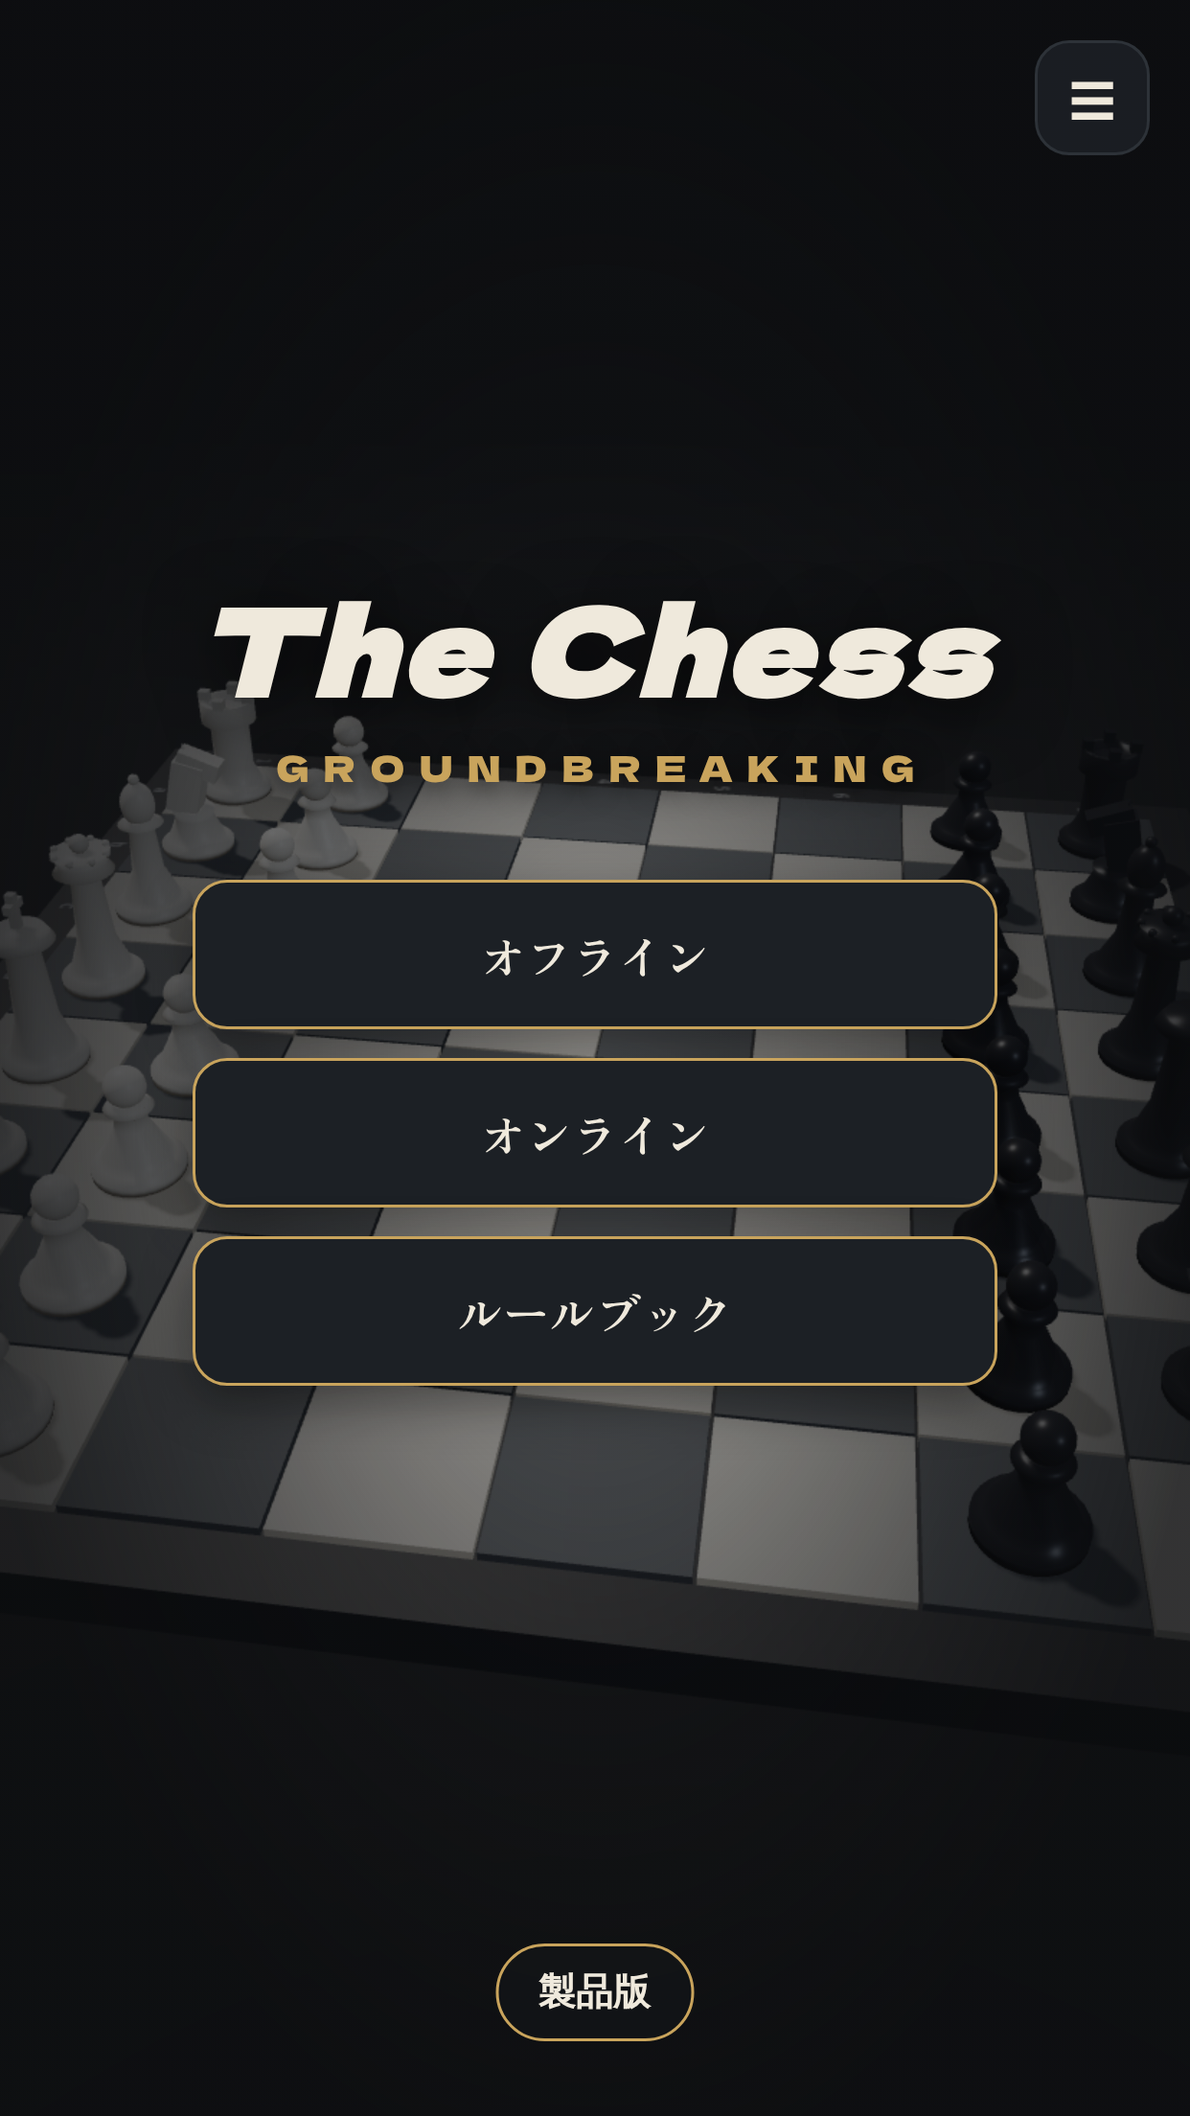
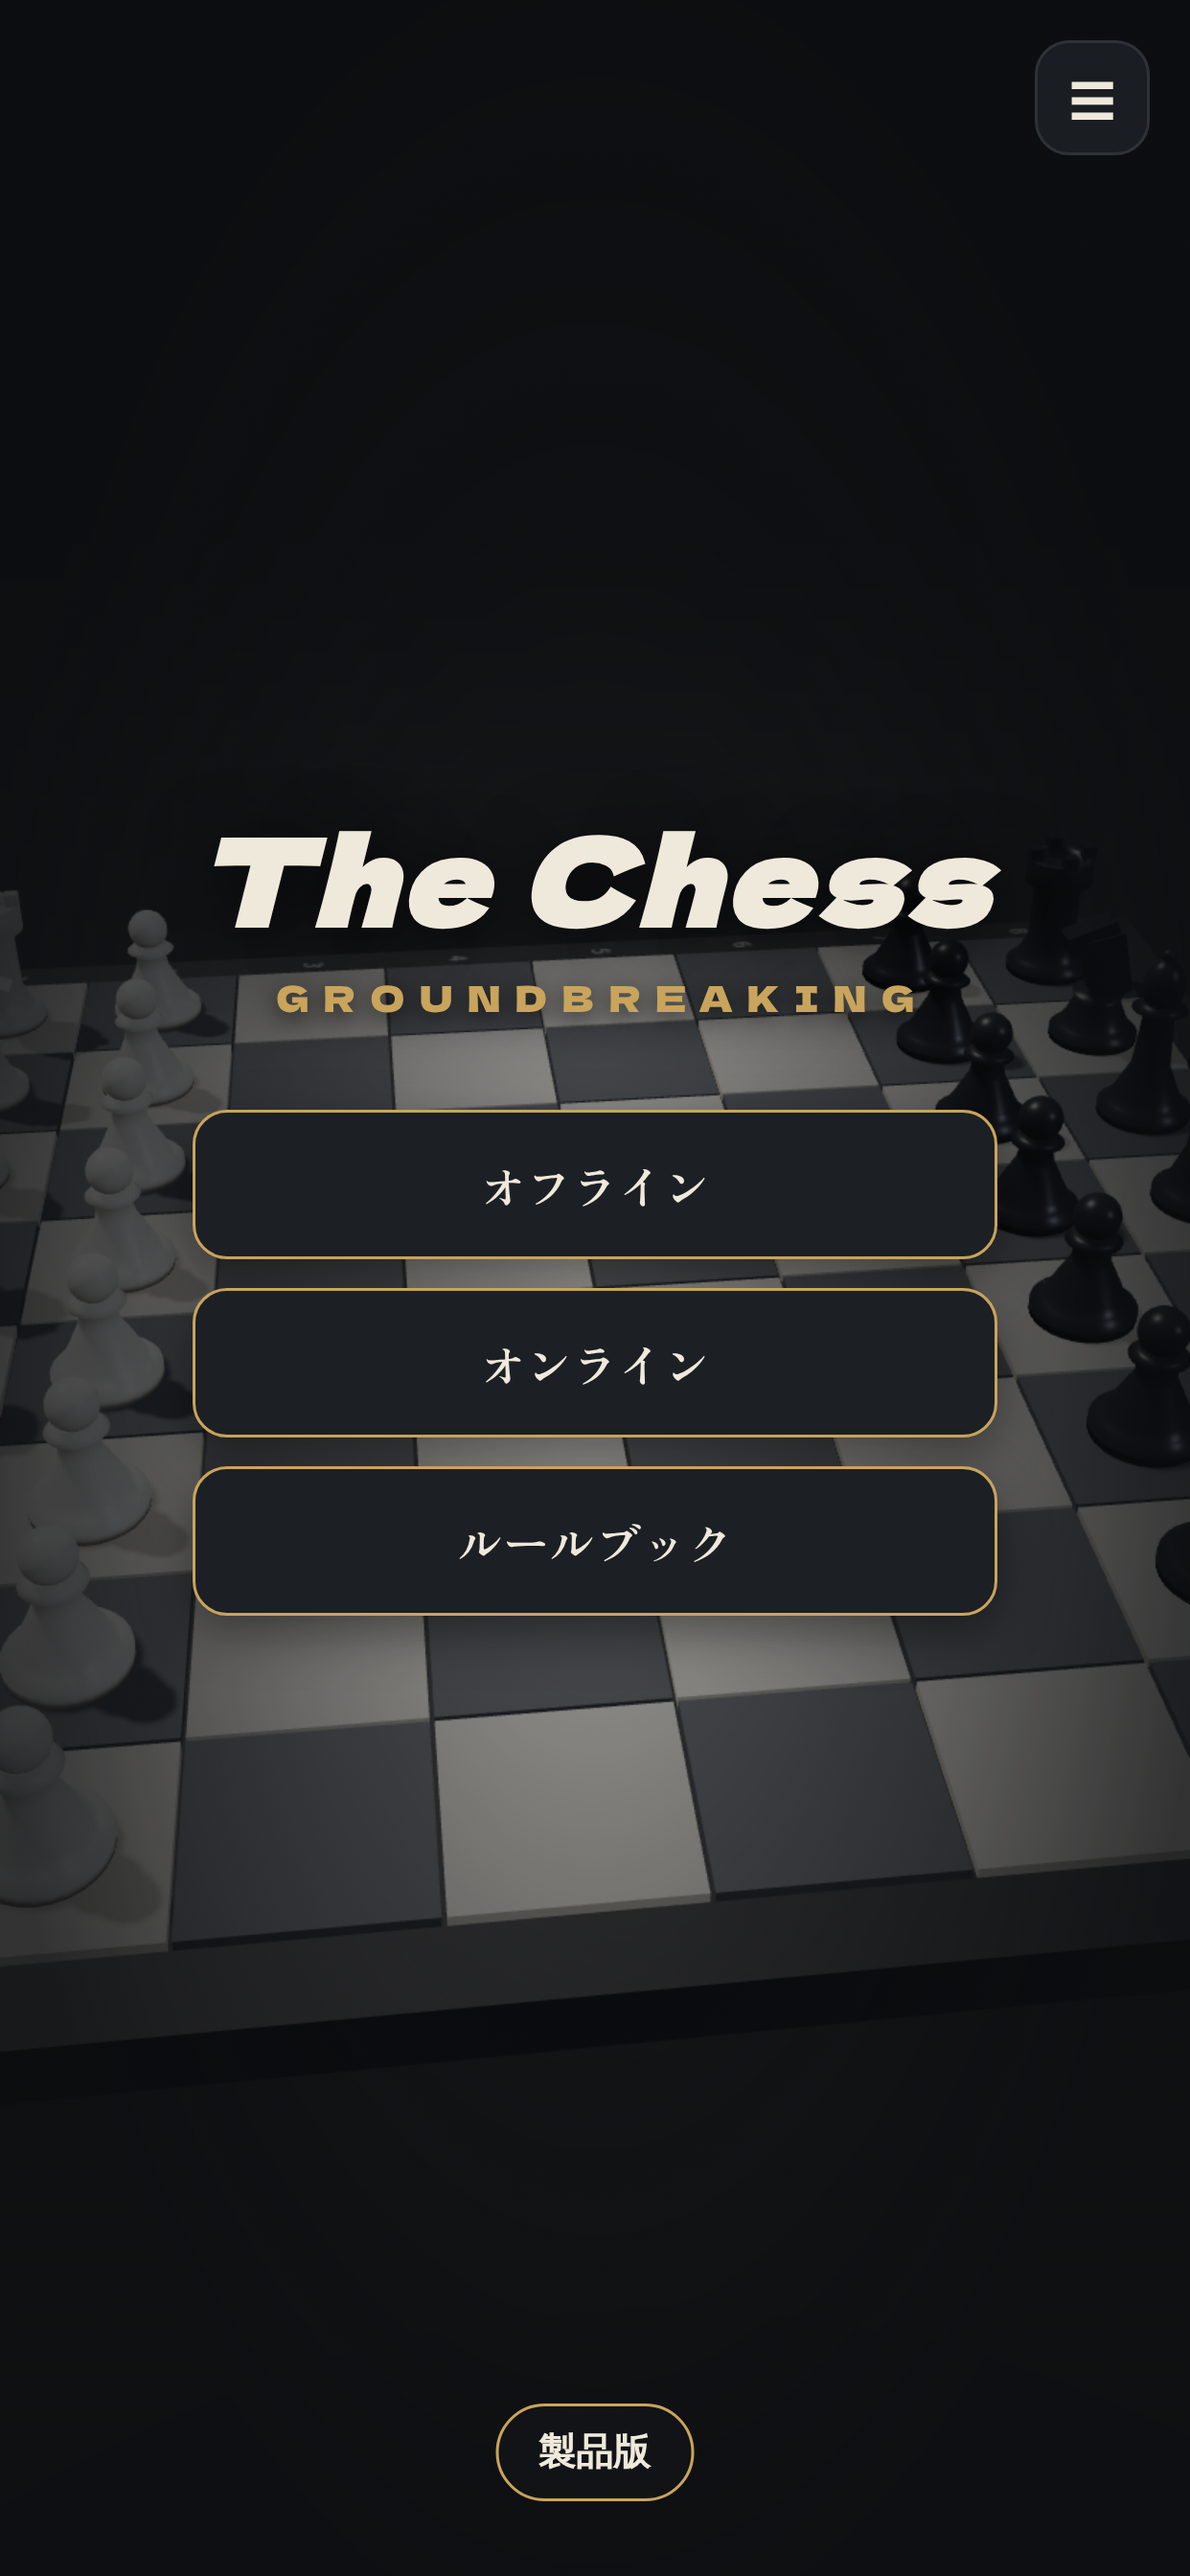
Fix the second screenshot size and say where each file goes
The set labelled 6.5 inch was 1242x2208, which is the old 5.5 inch
size, not a size App Store Connect accepts today. Recaptured at
1242x2688. Every file is now one of the two sizes Apple takes, checked
by reading the PNG headers.

STORE.md now says which file goes in which localization and slot, and
why the order is title, pieces, skills: the piece panel carries the
pitch but makes no sense as the opening frame.

Claude-Session: https://claude.ai/code/session_01UoCaNP4Uyn1TJQHmdQYghU

diff --git a/STORE.md b/STORE.md
@@ -194,28 +194,38 @@ Restore is in the menu at the top right.
 
 ## スクリーンショット
 
-`store/` に3枚を各サイズ・各言語で置いた（6.7インチ 1290×2796 / 6.5インチ 1242×2208）。
+`store/` に 12枚（3枚 × 2サイズ × 2言語）。**そのまま App Store Connect に上げられる寸法**。
 
-| | |
+| 寸法 | Apple の呼び方 |
 |---|---|
-| `1-title` | タイトル |
-| **`2-pieces`** | **ルールブックの「駒」。ポーン320HP／ナイト480HP／ビショップ520HP／ルーク640HP と、各駒のスキル名（Phalanx・Tempest・Sanctuary・Laser …）が同じ画面に出ている。このゲームの売り2つを1枚で見せられる唯一の画面なので、ここを先頭に置く** |
-| `3-skills` | ルールブックの「技」。Castling・En Passant と、3Dの盤で動くデモ |
+| 1290×2796 | **6.7インチ**（6.9インチ枠にも使える） |
+| 1242×2688 | **6.5インチ** |
 
-### 盤の写真は実機で撮ること
+### どれをどこに上げるか
 
-ここで生成した盤のスクリーンショットは**使い物にならない**。理由は2つ。
+プロダクトページ右上の言語を切り替えて、それぞれに上げる。
 
-1. ソフトウェア描画なので、影も光沢も実機と違って平たい
-2. 技の演出はアニメーションの一瞬で、自動では狙った瞬間を止められない
+| 言語 | 枠 | ファイル |
+|---|---|---|
+| 英語（U.S.） | 6.7インチ | `6.7-en-1-title` `6.7-en-2-pieces` `6.7-en-3-skills` |
+| 英語（U.S.） | 6.5インチ | `6.5-en-1-title` `6.5-en-2-pieces` `6.5-en-3-skills` |
+| 日本語 | 6.7インチ | `6.7-ja-1-title` `6.7-ja-2-pieces` `6.7-ja-3-skills` |
+| 日本語 | 6.5インチ | `6.5-ja-1-title` `6.5-ja-2-pieces` `6.5-ja-3-skills` |
 
-**実機のテスト中に、自分で撮ってください。** 欲しい瞬間はこの3つ。
+**順番が大事。** 一覧で見えるのは最初の1〜2枚だけなので、この順で。
 
-| | 撮るタイミング |
-|---|---|
-| **スキルの発動** | 技名が大きく出て、ダメージ数字が飛んでいる瞬間。**ここが一番の売り** |
-| ベアキング | 王が1体になって光り、HPバーが伸びた直後 |
-| リザルト | 「勝利」と戦績が並んだ画面 |
+| | 中身 | なぜこの順か |
+|---|---|---|
+| 1 | タイトル | 何のアプリか |
+| **2** | **ルールブックの「駒」** | **ポーン320HP/威力90、クイーン760HP/威力80。各駒のスキル名も同じ画面。売りが1枚で出ている** |
+| 3 | ルールブックの「技」 | 22のスキルと3Dデモ |
 
-Appleは**6.7インチと6.5インチで各3枚以上**を求める。上の3枚だけでも出せるが、
-スキルの発動の瞬間が1枚あるかないかで伝わり方が変わる。
+2番を1番にしない。いきなり数字の表から始まると何のアプリか分からない。
+
+### 実機で1枚撮ったら、2番の次に入れる
+
+**スキル発動の瞬間**（技名が大きく出てダメージ数字が飛んでいるところ）。
+ソフトウェア描画では狙った瞬間を止められないので、ここだけ実機で。
+撮れたら、順番は タイトル → 駒 → **スキル発動** → 技 にする。
+
+ベアキングとリザルトも撮れれば5枚になる。Appleの最低は各3枚。
